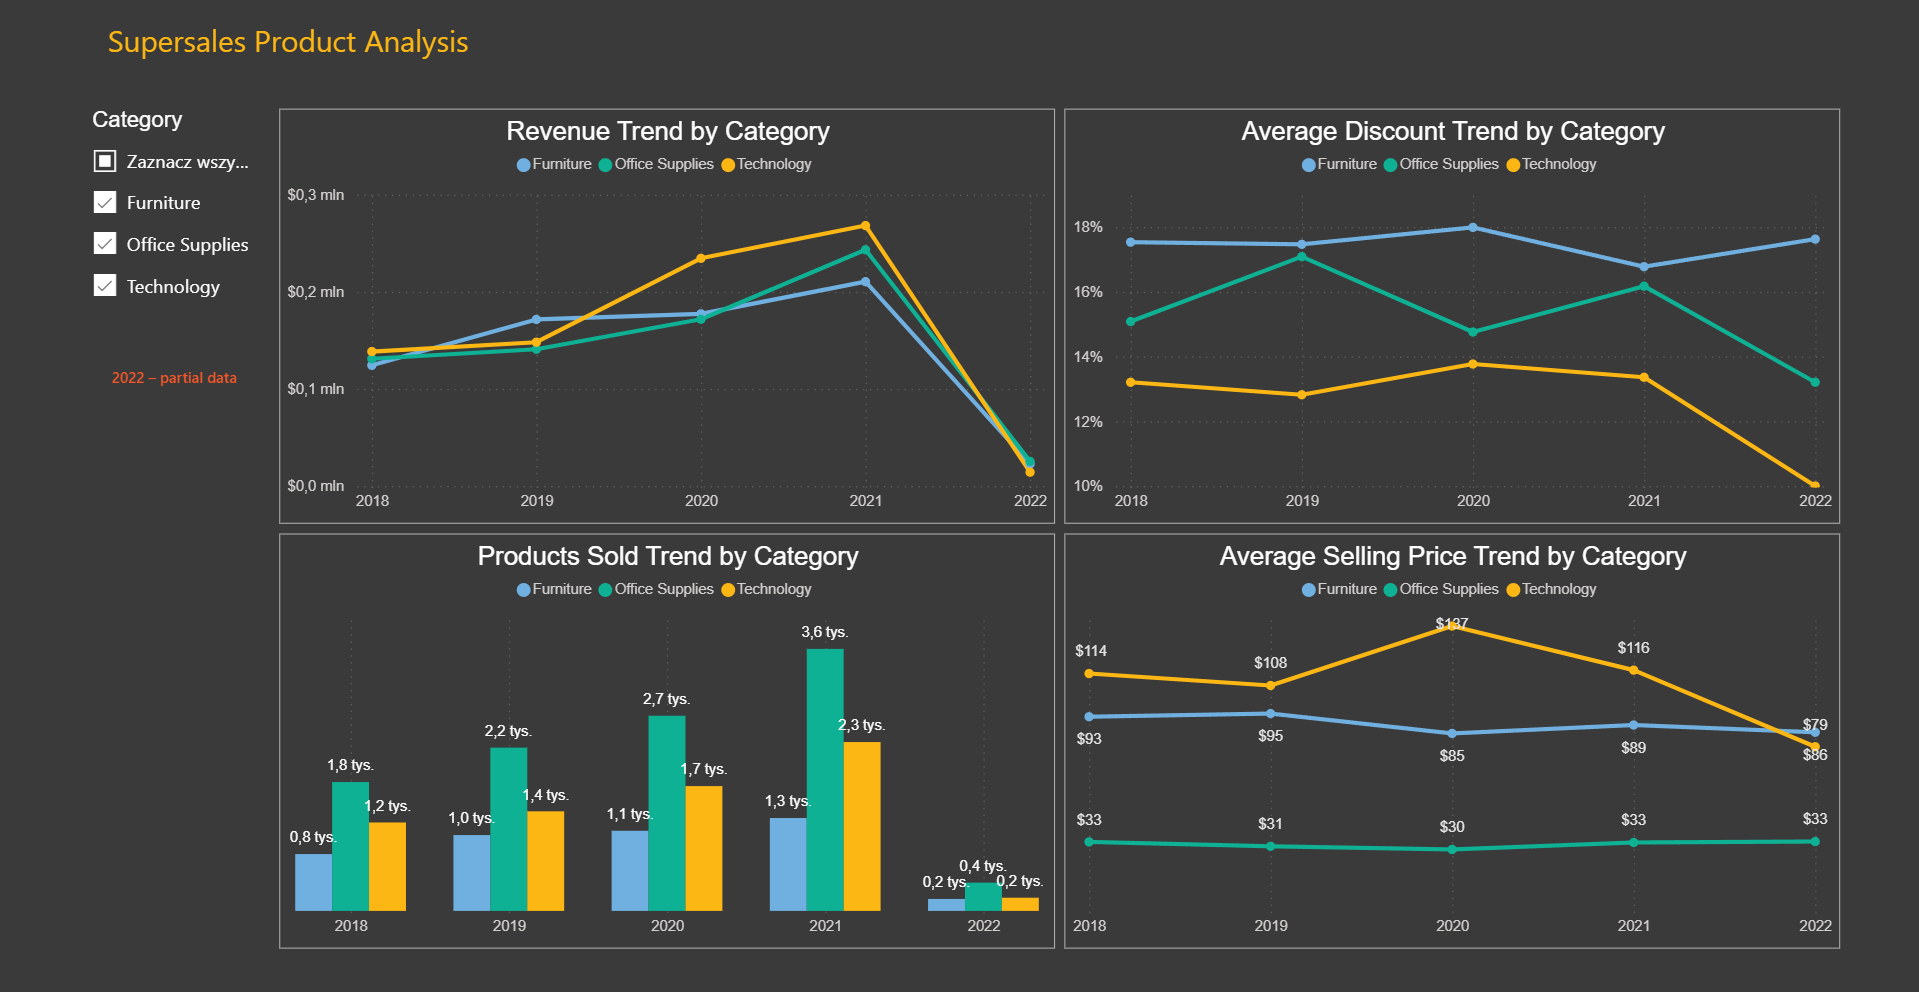
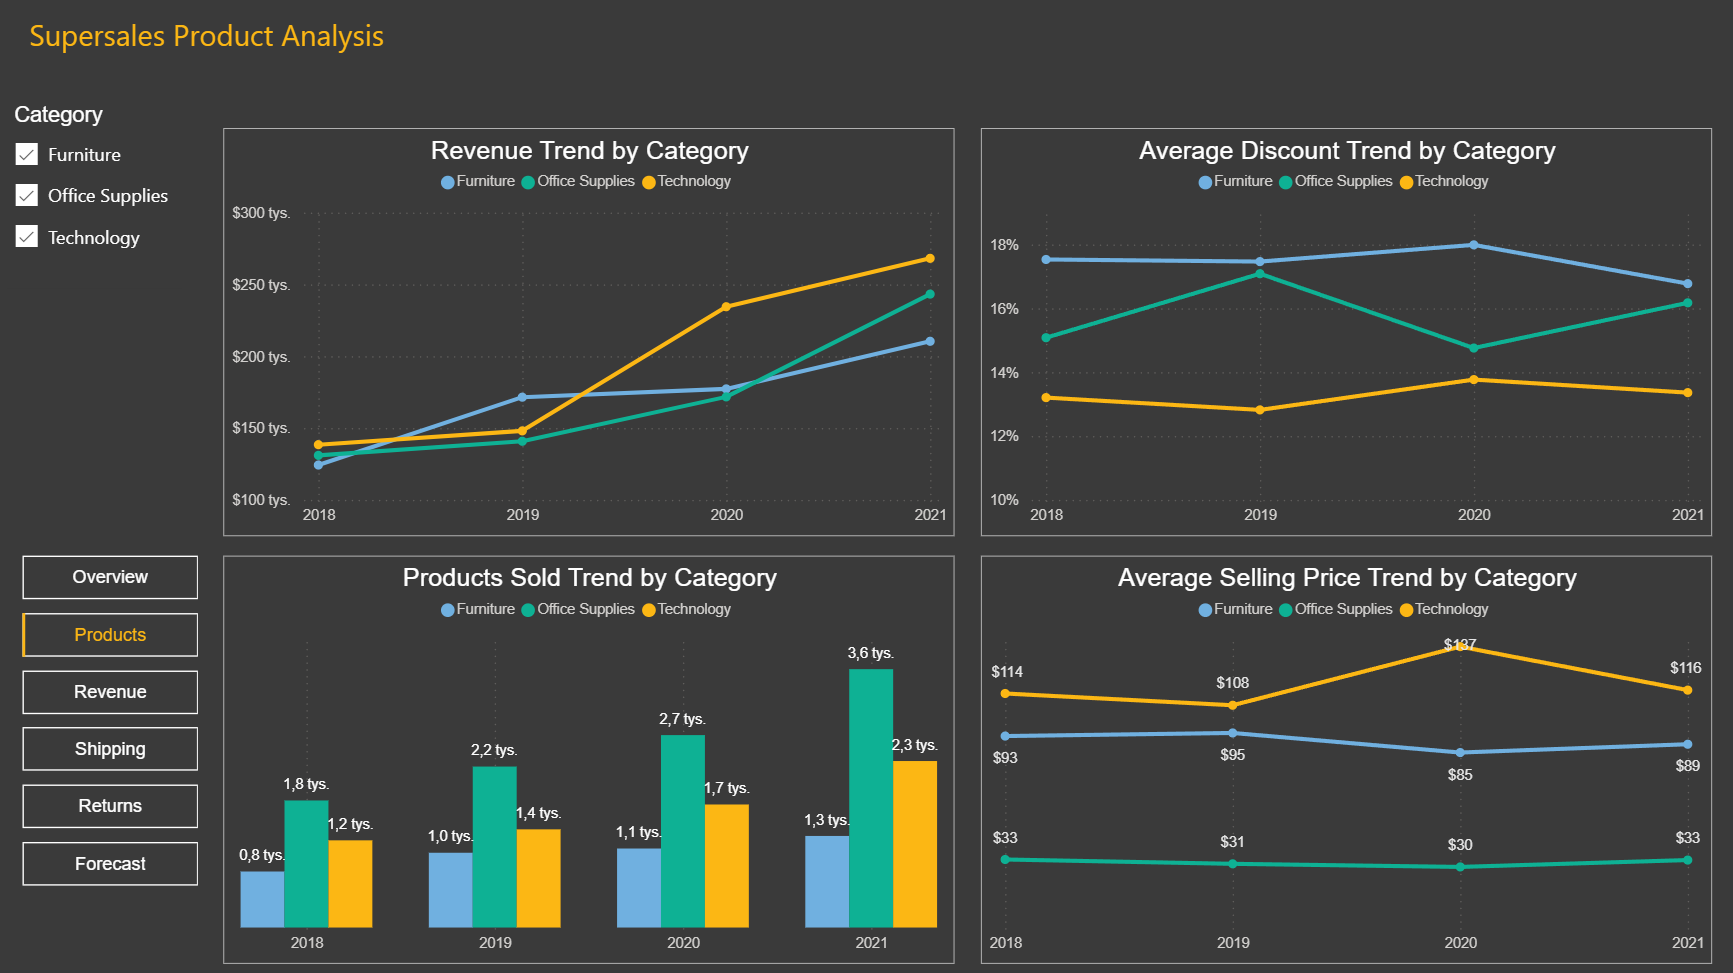
Add key insights and finalize README

diff --git a/README.md b/README.md
@@ -27,6 +27,78 @@ The report also includes custom report page tooltips that provide additional con
 
 These tooltips allow users to explore supporting information without leaving the current report page.
 
+## Key Insights
+
+### Executive Overview
+
+- Revenue increased throughout the analysed period, reaching approximately **$2.16M** in total.
+- Revenue CAGR for the analysed period was approximately **22.4%**.
+- Revenue growth was accompanied by a strong increase in both the number of orders and the number of products sold.
+- At the same time, **Average Order Value declined from $477 in 2018 to $446 in 2021**.
+- This indicates that revenue growth was primarily **volume-driven rather than driven by increasing order value**.
+- Sales also show a visible seasonal pattern, with particularly strong results in **Q4**.
+- Revenue and Order Count on the Overview exclude orders recorded as returned, keeping the main sales KPIs methodologically consistent.
+
+### Product Analysis
+
+- Revenue increased across all three product categories over the analysed period.
+- **Technology became the strongest revenue-generating category**, reaching approximately **$270K in 2021**. Furniture temporarily led in 2019 but subsequently showed much slower revenue growth.
+- **Office Supplies generated the highest sales volume**, despite having the lowest Average Selling Price at approximately **$30–33**.
+- This suggests that Office Supplies revenue is primarily **volume-driven**.
+- Technology combines the **highest Average Selling Price with the lowest discount levels** and generates the highest revenue in the final analysed years.
+- Furniture receives the **highest average discounts**, but this does not translate into superior revenue performance. This makes the effectiveness of the discounting strategy in this category worth further investigation.
+- The available data is not sufficient to conclude that reducing discounts would automatically increase Furniture performance; margin and profitability data would be required for such a recommendation.
+
+### Revenue Analysis
+
+- Total analysed revenue amounts to approximately **$2.16M**.
+- **Technology generated the highest revenue — approximately $789K**, while Furniture and Office Supplies each generated approximately **$683–687K**.
+- Revenue shows clear seasonality. The strongest sales periods tend to occur toward the **end of the year**, while February and March are generally among the weaker months.
+- The increasing annual revenue trend combined with recurring seasonal peaks suggests that business growth did not eliminate the underlying seasonal sales pattern.
+- The decomposition tree shows that revenue concentration can be investigated further from **Category → Product Group → Product**, rather than treating category-level results as the end of the analysis.
+
+### Shipping Analysis
+
+- **California is the largest market** in both order volume and revenue, with approximately **970 orders** and **$435K in revenue**.
+- New York and Texas are the next largest states by order volume, but their revenue contribution differs substantially. This shows that **order volume alone does not fully explain revenue performance across states**.
+- **Standard Class dominates shipping activity**, generating approximately **$1.30M in revenue**, but it also has the longest average order processing time at approximately **5 days**.
+- Faster shipping modes account for considerably smaller revenue volumes.
+- The results show a clear relationship between shipping mode and processing time, but the dataset does not allow us to determine whether customers deliberately select slower shipping, whether this is driven by cost, or whether other operational factors are involved.
+
+### Returns Analysis
+
+- **101 orders were recorded as returned**, resulting in an overall **Return Rate of 2.09%** for the analysed period.
+- The calculated revenue associated with returned orders is approximately **$46.17K**. This represents the value of orders marked as returned and should **not be interpreted as a confirmed refund amount**.
+- Rated orders have a Return Rate of approximately **2.49%**, compared with approximately **2.02% for unrated orders**.
+- However, only **723 orders have customer ratings**, so the rated sample represents a relatively small subset of all orders.
+- A high customer rating does **not consistently correspond to a lower probability of return**. For example, the observed Return Rate varies considerably between individual rating levels.
+- Similarly, there is **no clear relationship between order processing time and Return Rate**. The rate does not consistently increase or decrease as processing time changes.
+- Therefore, the available data does not provide sufficient evidence to identify either customer rating or processing time as a meaningful driver of returns.
+- Because returns are recorded only at **order level**, the dataset also does not allow identification of the specific products, quantities or reasons responsible for a return.
+
+### Forecast Performance
+
+- Total Forecast for 2018–2021 was approximately **$2.48M**, compared with Actual Revenue of approximately **$2.16M**.
+- Overall **Forecast Achievement was approximately 87%**, corresponding to a negative variance of approximately **$316K**.
+- Before excluding orders recorded as returned, revenue would have been approximately **$2.21M**, corresponding to roughly **89% Forecast Achievement**. Returned orders therefore reduce achievement by approximately **1.9 percentage points**, but they do not explain the majority of the forecast shortfall.
+- Performance differs substantially by shipping mode:
+  - **Second Class: 101%** — slightly above forecast.
+  - **Same Day: 98%** — close to forecast.
+  - **First Class: 86%** — 14 percentage points below target.
+  - **Standard Class: 83%** — 17 percentage points below target.
+- Standard Class accounts for approximately **$267K of the total $316K negative variance**, meaning that roughly **85% of the overall forecast shortfall is concentrated in this shipping mode**.
+- Standard Class remained below forecast in **every analysed year**, suggesting a persistent pattern rather than a single-year deviation.
+- However, the available dataset does not establish whether this gap results from overly optimistic forecasts, weaker-than-expected sales or another business factor.
+- The interpretation of `cost_forecast` as a revenue/budget-like benchmark remains an **analytical assumption**, because its exact business definition is not documented.
+
+### Overall Conclusion
+
+Across 2018–2021, Supersales shows **strong revenue growth driven primarily by increasing sales volume**, while Average Order Value gradually declines. Technology emerges as the strongest revenue category, while Office Supplies relies heavily on volume. Sales exhibit clear seasonality, with stronger performance toward the end of the year.
+
+Returns represent a relatively small proportion of orders and slightly reduce overall forecast achievement, but the available ratings, processing-time and return data do not provide sufficient evidence to identify the underlying causes of returns.
+
+The largest gap between forecast and actual performance is concentrated in **Standard Class**, which accounts for the majority of the overall negative forecast variance and remains below forecast throughout the analysed period.
+
 ## Dataset and Data Preparation
 
 The project uses the Supersales dataset provided as part of the KajoData training materials.
@@ -62,15 +134,17 @@ The DAX measure uses `SUMX` to calculate revenue for individual order positions 
 
 One limitation is that product prices come from the product catalog rather than being stored separately at the time of each transaction. Therefore, the calculated historical revenue depends on the available catalog prices.
 
-### Time Analysis and Partial Data
+### Time Analysis and Data Coverage
 
-The dataset covers 2018–2022, but 2022 contains only partial data.
+The source dataset contains transactions from January 29, 2018 to January 25, 2022.
 
-Comparing an incomplete year directly with full previous years could lead to misleading conclusions.
+The report focuses on the analytical period from January 29, 2018 to December 31, 2021. Although transactions are available for 2022, they cover only the first 25 days of January. Including this period in annual or quarterly trend analysis would create misleading comparisons with substantially longer periods.
 
-To make this limitation visible, I created a DAX measure that displays a `2022 – partial data` notice whenever 2022 is included in the current filter context.
+For this reason, 2022 was intentionally excluded from the report analysis while the underlying source data was retained in the data model.
 
-I also took incomplete periods into account when calculating Revenue CAGR.
+The 2018 data begins on January 29. This starting point was retained as the beginning of the observed dataset and is documented as a data coverage limitation.
+
+Revenue CAGR is calculated using comparable annual periods and therefore does not include the partial 2022 period.
 
 ### Product Analysis
 
@@ -153,7 +227,7 @@ The forecast-versus-actual results should be interpreted with this limitation in
 The report includes measures such as:
 
 - Revenue
-- Orders Count
+- Order Count
 - Products Sold
 - Customers Count
 - Average Order Value
@@ -210,7 +284,7 @@ The results are based on the documented assumption about the meaning of the `cos
 
 Several characteristics of the dataset affected the analytical approach:
 
-1. **Partial year:** 2022 contains incomplete data and should not be compared directly with full years.
+1. **Data coverage:** The source dataset spans January 29, 2018 to January 25, 2022. The report analysis is limited to January 29, 2018–December 31, 2021. The partial 2022 period was intentionally excluded to avoid misleading annual and quarterly comparisons. The beginning of 2018 is also partial and is retained as the starting point of the observed dataset.
 2. **Historical prices:** Product prices are retrieved from the product catalog rather than stored at transaction level.
 3. **Missing ratings:** Only a subset of orders has a recorded customer rating. Rated orders may not be representative of all orders.
 4. **Order-level returns:** Return records do not identify returned products, quantities or confirmed refund amounts.

diff --git a/documentation/data-model.md b/documentation/data-model.md
@@ -82,6 +82,8 @@ The `cost_forecast` field is interpreted as a budget-like financial benchmark ra
 
 ### Time Analysis
 
-The Calendar table supports time-based analysis.
+The source dataset contains transactions from January 29, 2018 to January 25, 2022.
 
-The dataset contains partial data for 2022, which is explicitly indicated in the report.
+The report focuses on the analytical period from January 29, 2018 to December 31, 2021. The partial 2022 period was intentionally excluded from the report analysis to avoid misleading comparisons with substantially longer annual and quarterly periods.
+
+The underlying 2022 source data is retained in the data model.
